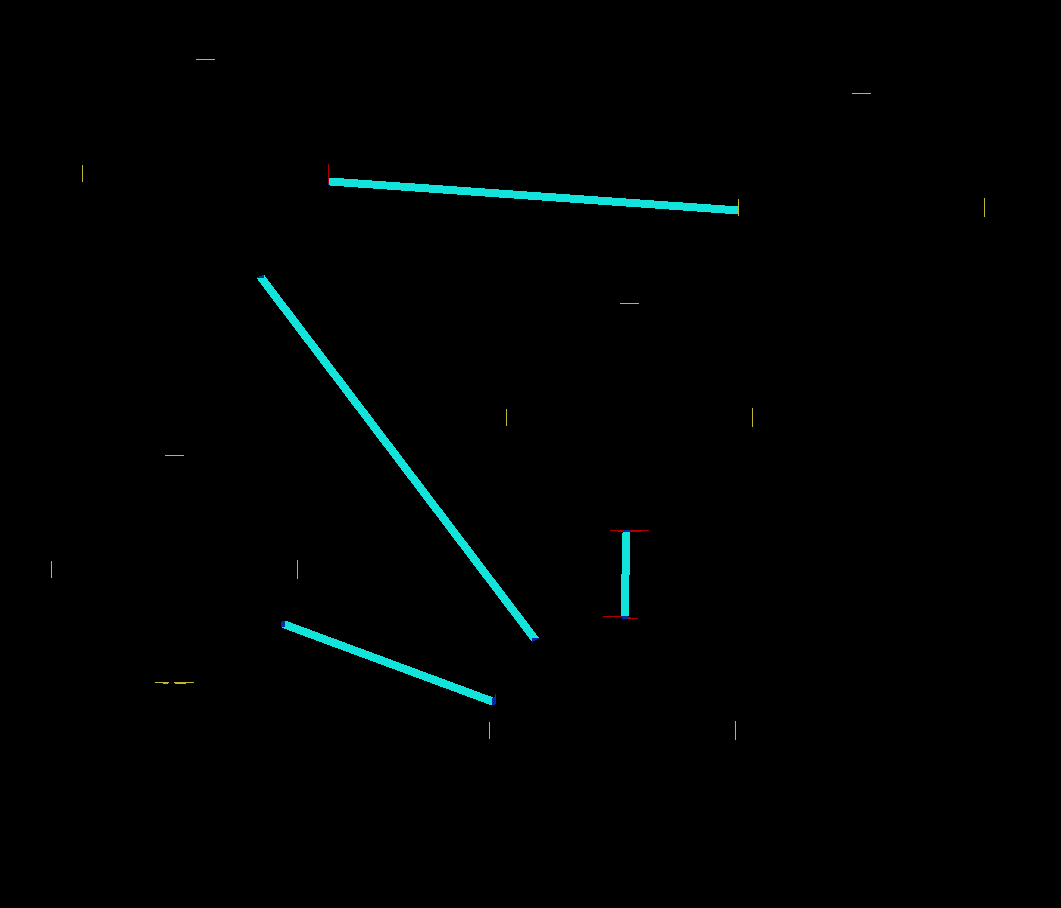
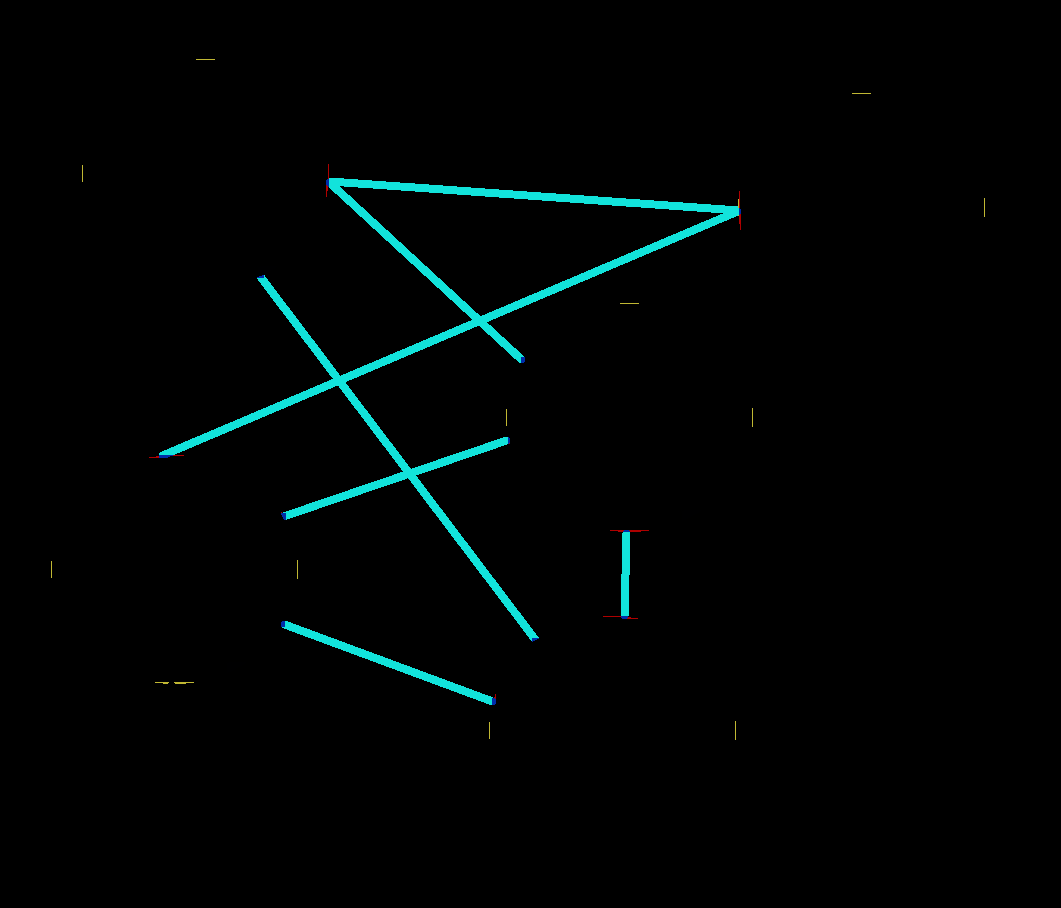
make lines longer after extraction

diff --git a/algo-OpenCV.py b/algo-OpenCV.py
@@ -1,9 +1,10 @@
 import cv2
 import numpy as np 
+from math import *
 
 #image_path = "newGood/randomGraph50_80.png"
 folder_path = "mySimpleGraphs/"
-image_path = "very simple graph3.png"
+image_path = "very simple graph8 (fix of 7).png"
 
 #load image
 image = cv2.imread(folder_path + image_path)
@@ -40,6 +41,15 @@ def drawEdges(lines_list, image):
 
   cv2.imwrite('detected Edges.png', image)
 
+def angle_trunc(a):
+    while a < 0.0:
+        a += pi * 2
+    return a
+
+def getAngleBetweenPoints(p1, p2):
+    deltaY = p2[1] - p1[1]
+    deltaX = p2[0] - p1[0]
+    return angle_trunc(atan2(deltaY, deltaX))
 
 def detectCircles(image): #https://www.geeksforgeeks.org/circle-detection-using-opencv-python/
   #Creating kernel 
@@ -89,14 +99,16 @@ def detectEdges(img): #https://www.geeksforgeeks.org/line-detection-python-openc
               minLineLength=50, #Min allowed length of line
               maxLineGap=70 #Max allowed gap between line for joining them
               )
-  
-  #Iterate over points
-  for points in lines:
-    #Extracted points nested in the list
-    x1,y1,x2,y2=points[0]
 
-    #Maintain a simples lookup list for points
-    lines_list.append([x1,y1,x2,y2])
+  #make the detected lines longer, so they go inside the vertices
+  for points in lines:
+    x1,y1,x2,y2=points[0]
+    angle = getAngleBetweenPoints((x1,y1),(x2,y2)) #https://stackoverflow.com/questions/7586063/how-to-calculate-the-angle-between-a-line-and-the-horizontal-axis
+    new_x1 = int(x1 - np.cos(angle)*10)
+    new_y1 = int(y1 - np.sin(angle)*10)
+    new_x2 = int(x2 + np.cos(angle)*10)
+    new_y2 = int(y2 + np.sin(angle)*10)
+    lines_list.append([new_x1,new_y1,new_x2,new_y2])
   
   drawLines(lines_list, img.copy())
 
@@ -131,7 +143,7 @@ def checkIfInCircle(point,circles):
   for circle in circles:
     cx, cy, r = circle[0], circle[1], circle[2]
     px, py = point
-    threshold=10
+    threshold=0
     if px >= cx-r-threshold and px <= cx+r+threshold and py >= cy-r-threshold and py <= cy+r+threshold:
       return circle
   
@@ -168,6 +180,8 @@ def drawExtractedGraph(vertices, edges):
   for edge in edges:
     x1,y1,x2,y2 = edge
     cv2.line(blank_image, (x1,y1), (x2,y2), (0,0,255), 2)
+    cv2.circle(blank_image, (x1, y1), 1, (0, 255, 0), 3) 
+    cv2.circle(blank_image, (x2, y2), 1, (255, 0, 0), 3) 
 
   cv2.imwrite("Extracted Graph.png", blank_image)
 
